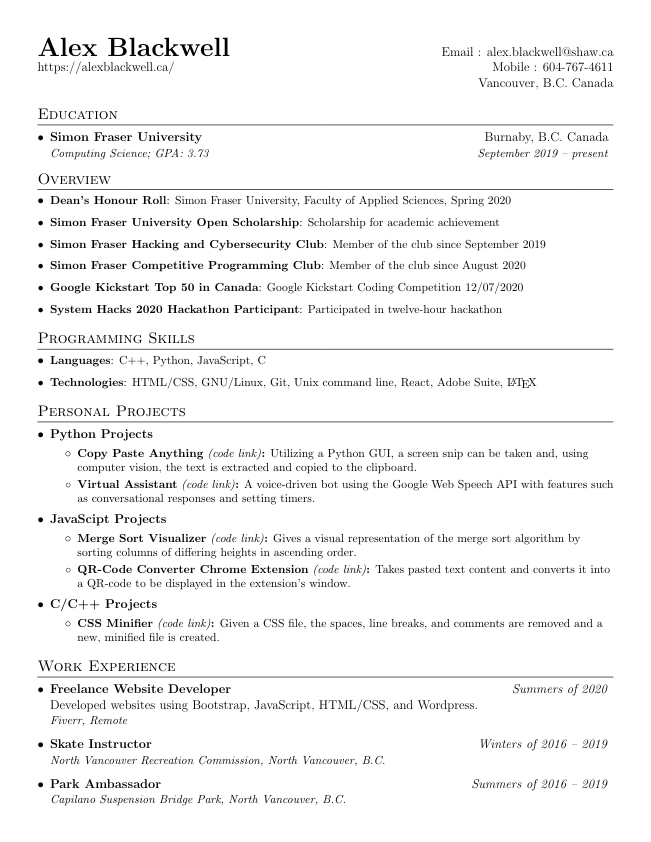
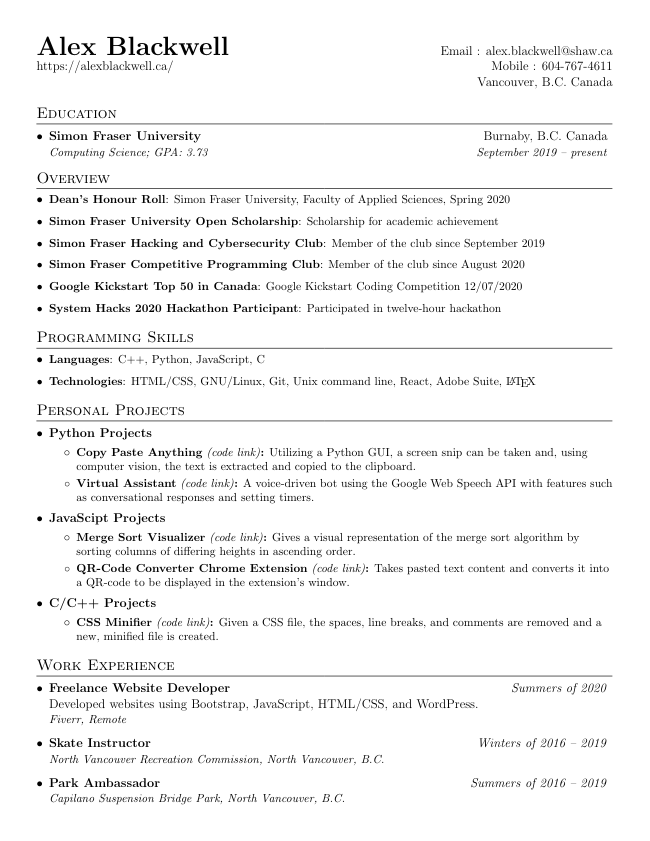
:sparkles: Typo fix

diff --git a/alex_blackwell_resume.tex b/alex_blackwell_resume.tex
@@ -192,7 +192,7 @@
   \resumeSubHeadingListStart
     \resumeWorkExperience
 	{Freelance Website Developer} {Summers of 2020}
-	{Developed websites using Bootstrap, JavaScript, HTML/CSS, and Wordpress.} {Fiverr, Remote}
+	{Developed websites using Bootstrap, JavaScript, HTML/CSS, and WordPress.} {Fiverr, Remote}
     \resumeWorkExperienceLight
 	{Skate Instructor} {Winters of 2016 -- 2019}
 	{North Vancouver Recreation Commission, North Vancouver, B.C.}

diff --git a/README.md b/README.md
@@ -8,6 +8,6 @@ Feel free to use my résumé as a template! :smiley:
 ## Résumé
 
 <p align="center">
-<a href="https://alexblackwell.ca/">
+<a href="https://github.com/Alex0Blackwell/resume/blob/master/alex_blackwell_resume.pdf">
 <img src="./.pictures/resume.png"/>
 </a>
